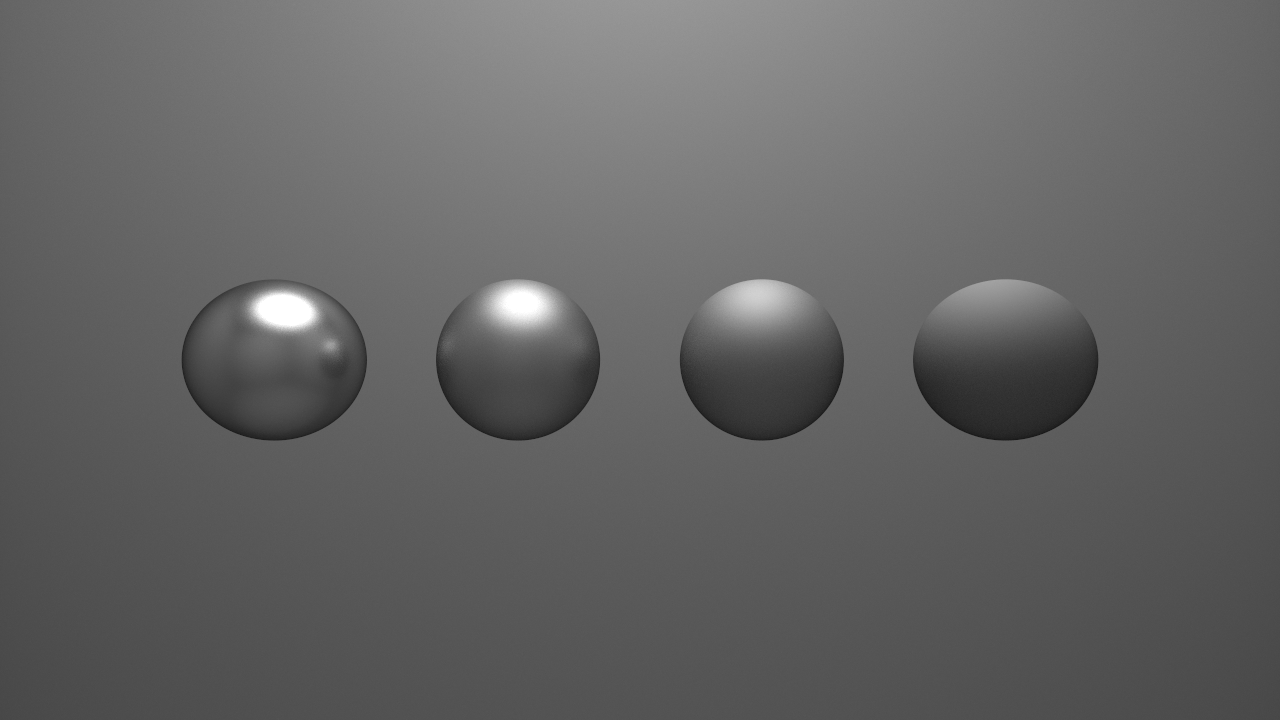
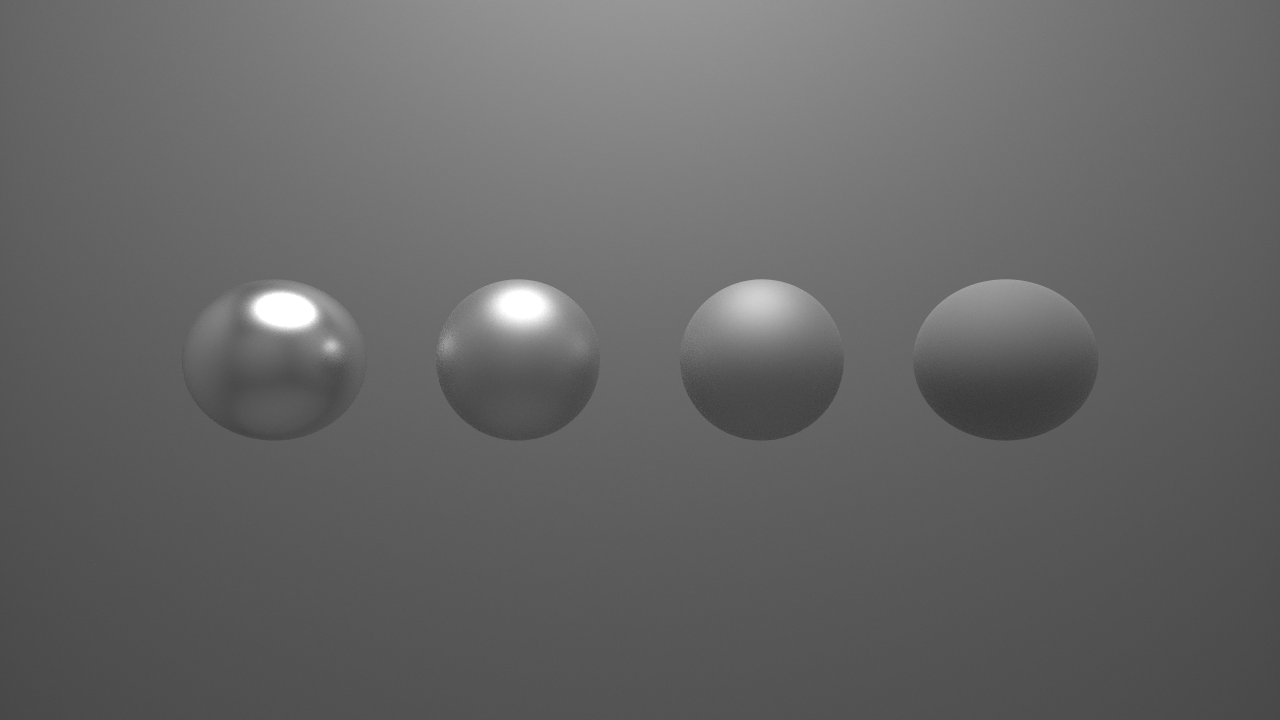
bunch of stuff

diff --git a/src/material/microfacet_bsdf.cpp b/src/material/microfacet_bsdf.cpp
@@ -9,31 +9,32 @@ MicrofacetBSDF::MicrofacetBSDF(double refractionIndex, Fresnel* fresnelFunction,
 Vector3 MicrofacetBSDF::Evaluate(Vector3 in, Vector3 normal, Vector3 out) {
     in = -in;
     bool reflection = PositiveCharacteristic(normal.dot(in)) && PositiveCharacteristic(normal.dot(out));
-    double jacobian;
-    double fresnel = (*fresnelFunction)(in.dot(normal), 1, refractionIndex);
     Vector3 h;
+    double fresnel;
     if (reflection) {
         h = (sign(normal.dot(in))*(out+in)).normalized();
-        jacobian = 1 / (4 * normal.dot(in) *out.dot(h));
-        return microfacetDistribution->Distribution(h, normal) * microfacetDistribution->Geometry(in, out, h, normal) * jacobian * fresnel;
+        fresnel = (*fresnelFunction)(in.dot(h), refractionIndex, 1);
+        return microfacetDistribution->Distribution(h, normal) * microfacetDistribution->Geometry(in, out, h, normal) * fresnel / (4 * std::abs(normal.dot(in)*out.dot(normal)));
     } else {
+        double jacobian;
         bool entering = normal.dot(in) > 0;
         if (entering) {
             h = (refractionIndex * out + in).normalized();
             h = -h;
-            jacobian = square(refractionIndex) * out.dot(h) / square(h.dot(in) + refractionIndex * (out.dot(h)));
+            jacobian = square(refractionIndex) * std::abs(out.dot(h)) / square(h.dot(in) + refractionIndex * (out.dot(h)));
         } else {
             h = (out + refractionIndex * in).normalized();
             h = -h;
-            jacobian = out.dot(h) / square(refractionIndex * h.dot(in) + out.dot(h));
+            jacobian = std::abs(out.dot(h)) / square(refractionIndex * h.dot(in) + out.dot(h));
         }
-        return in.dot(h) / (in.dot(normal) * out.dot(normal)) * jacobian * microfacetDistribution->Distribution(h, normal) * microfacetDistribution->Geometry(in, out, h, normal) * (1 - fresnel);
+        fresnel = 1 - (*fresnelFunction)(in.dot(h), refractionIndex, 1);
+        return std::abs(in.dot(h) / (in.dot(normal) * out.dot(normal))) * jacobian * microfacetDistribution->Distribution(h, normal) * microfacetDistribution->Geometry(in, out, h, normal) * fresnel;
     }
 }
 
 Vector3 MicrofacetBSDF::Sample(Vector3 in, Vector3 normal) {
-    double fresnel = (*fresnelFunction)(-in.dot(normal), 1, refractionIndex);
     Vector3 m = Matrix3::createFromNormal(normal) * microfacetDistribution->Sample(dist(gen), dist(gen));
+    double fresnel = (*fresnelFunction)(-in.dot(m), refractionIndex, 1);
     double u = dist(gen);
     if (u < fresnel) {
         // Reflect
@@ -46,25 +47,26 @@ Vector3 MicrofacetBSDF::Sample(Vector3 in, Vector3 normal) {
 
 double MicrofacetBSDF::pdf(Vector3 in, Vector3 normal, Vector3 out) {
     in = -in;
-    bool refraction = PositiveCharacteristic(normal.dot(in)) && PositiveCharacteristic(normal.dot(out));
+    bool reflection = PositiveCharacteristic(in.dot(normal)) && PositiveCharacteristic(normal.dot(out));
     double jacobian;
-    double fresnel = (*fresnelFunction)(in.dot(normal), 1, refractionIndex);
     Vector3 h;
-    if (refraction) {
+    double fresnel;
+    if (reflection) {
         h = (sign(normal.dot(in))*(out+in)).normalized();
-        jacobian = 1 / (4 * out.dot(h));
+        fresnel = (*fresnelFunction)(in.dot(h), refractionIndex, 1);
+        jacobian = 1 / (4 * std::abs(out.dot(h)));
     } else {
         bool entering = normal.dot(in) > 0;
         if (entering) {
             h = (refractionIndex * out + in).normalized();
             h = -h;
-            jacobian = square(refractionIndex) * out.dot(h) / square(h.dot(in) + refractionIndex * (out.dot(h)));
+            jacobian = square(refractionIndex) * std::abs(out.dot(h)) / square(h.dot(in) + refractionIndex * (out.dot(h)));
         } else {
             h = (out + refractionIndex * in).normalized();
             h = -h;
-            jacobian = out.dot(h) / square(refractionIndex * h.dot(in) + out.dot(h));
+            jacobian = std::abs(out.dot(h)) / square(refractionIndex * h.dot(in) + out.dot(h));
         }
-        fresnel = 1 - fresnel;
+        fresnel = 1 - (*fresnelFunction)(in.dot(h), refractionIndex, 1);
     }
     double hProbability = microfacetDistribution->Distribution(h, normal) * h.dot(normal);
     return hProbability * jacobian * fresnel;
@@ -72,28 +74,28 @@ double MicrofacetBSDF::pdf(Vector3 in, Vector3 normal, Vector3 out) {
 
 Vector3 MicrofacetBSDF::operator()(Vector3 in, Vector3 normal, Vector3& out, double& probability) {
     in = -in;
-    double fresnel = (*fresnelFunction)(in.dot(normal), 1, refractionIndex);
     Vector3 m = Matrix3::createFromNormal(normal) * microfacetDistribution->Sample(dist(gen), dist(gen));
-    double u = dist(gen);
+    double fresnel = (*fresnelFunction)(in.dot(m), refractionIndex, 1);
+    double u = dist(gen); 
     double jacobian;
     if (u < fresnel) {
         // Reflect
         out = SpecularReflectBRDF::GetReflection(-in, m);
-        jacobian = 1 / (4 * out.dot(m));
+        jacobian = 1 / (4 * std::abs(out.dot(m)));
         double distribution = microfacetDistribution->Distribution(m, normal);
         probability = distribution * m.dot(normal) * jacobian * fresnel;
-        return distribution * microfacetDistribution->Geometry(in, out, m, normal) * jacobian * fresnel;
+        return distribution * microfacetDistribution->Geometry(in, out, m, normal) / (4 * std::abs(in.dot(normal) * out.dot(normal))) * fresnel;
     } else {
         // Transmit
         out = SpecularRefractBTDF::GetRefraction(-in, m, refractionIndex);
         bool entering = normal.dot(in) > 0;
         if (entering) {
-            jacobian = square(refractionIndex) * out.dot(m) / square(m.dot(in) + refractionIndex * (out.dot(m)));
+            jacobian = square(refractionIndex) * std::abs(out.dot(m)) / square(m.dot(in) + refractionIndex * (out.dot(m)));
         } else {
-            jacobian = out.dot(m) / square(refractionIndex * m.dot(in) + out.dot(m));
+            jacobian = std::abs(out.dot(m)) / square(refractionIndex * m.dot(in) + out.dot(m));
         }
         double distribution = microfacetDistribution->Distribution(m, normal);
         probability = distribution * m.dot(normal) * jacobian * (1 - fresnel);
-        return in.dot(m) / (in.dot(normal) * out.dot(normal)) * jacobian * distribution * microfacetDistribution->Geometry(in, out, m, normal) * (1 - fresnel);
+        return std::abs(in.dot(m) / (in.dot(normal) * out.dot(normal))) * jacobian * distribution * microfacetDistribution->Geometry(in, out, m, normal) * (1 - fresnel);
     }
 }

diff --git a/src/lighting/pathtracermis.cpp b/src/lighting/pathtracermis.cpp
@@ -45,7 +45,7 @@ Vector3 PathTracerMIS::Evaluate(Ray ray, int depth, Intersection& lastIntersecti
             Vector3 direction = light->DirectionalSample(dist(gen), dist(gen), intersection.intersect);
             double lightProbability = light->DirectionalSamplePDF(intersection.intersect, direction);
             if (lightProbability != 0.) {
-                Vector3 bxdfEval = material->color * material->bxdf->Evaluate(ray.direction, intersection.normal, direction) * intersection.normal.dot(direction);
+                Vector3 bxdfEval = material->color * material->bxdf->Evaluate(ray.direction, intersection.normal, direction) * std::abs(intersection.normal.dot(direction));
                 if (!(bxdfEval == Vector3(0.))) {
                     double bxdfProbability = material->bxdf->pdf(ray.direction, intersection.normal, direction);
                     Intersection lightIntersection;
@@ -62,7 +62,7 @@ Vector3 PathTracerMIS::Evaluate(Ray ray, int depth, Intersection& lastIntersecti
         Vector3 bxdfEval;
         Vector3 nextRay = Vector3(0.);
         {
-            bxdfEval = (*material->bxdf)(ray.direction, intersection.normal, direction, bxdfProbability) * intersection.normal.dot(direction);
+            bxdfEval = (*material->bxdf)(ray.direction, intersection.normal, direction, bxdfProbability) * std::abs(intersection.normal.dot(direction));
             if (!(bxdfEval == Vector3(0.))) {
                 double lightProbability = light->DirectionalSamplePDF(intersection.intersect, direction);
                 Intersection lightIntersection;

diff --git a/src/material/fresnel.cpp b/src/material/fresnel.cpp
@@ -19,9 +19,12 @@ double DielectricFresnel::operator()(double cosI, double etaT, double etaI) {
     bool entering = cosI > 0;
     if (!entering) {
         std::swap(etaT, etaI);
+        cosI = std::abs(cosI);
     }
-    cosI = std::abs(cosI);
-    double cosT = std::sqrt(1 - square(std::sqrt(1-square(cosI)) * etaI / etaT));
+    double sinI = std::sqrt(1 - square(cosI));
+    double sinT = etaI / etaT * sinI;
+    if (sinT >= 1) return 1;
+    double cosT = std::sqrt(1 - square(sinT));
     // https://en.wikipedia.org/wiki/Fresnel_equations equation 38
     double rs = square((etaT * cosI - etaI * cosT)/(etaT * cosI + etaI * cosT));
     double rt = square((etaI * cosI - etaT * cosT)/(etaI * cosI + etaT * cosT));

diff --git a/src/primitive/triangle.cpp b/src/primitive/triangle.cpp
@@ -64,8 +64,8 @@ double Triangle::DirectionalSamplePDF(Vector3 point, Vector3 direction) {
     Vector3 intersect;
     Vector3 normal;
     if (Intersect(ray, &intersect, &normal) != -1) {
-        Vector3 direction = intersect - point;
-        return direction.dot(direction) / (normal.dot(-direction) * area);
+        Vector3 distance = intersect - point;
+        return distance.dot(distance) / (std::abs(normal.dot(-direction)) * area);
     } else {
         return 0;
     }
